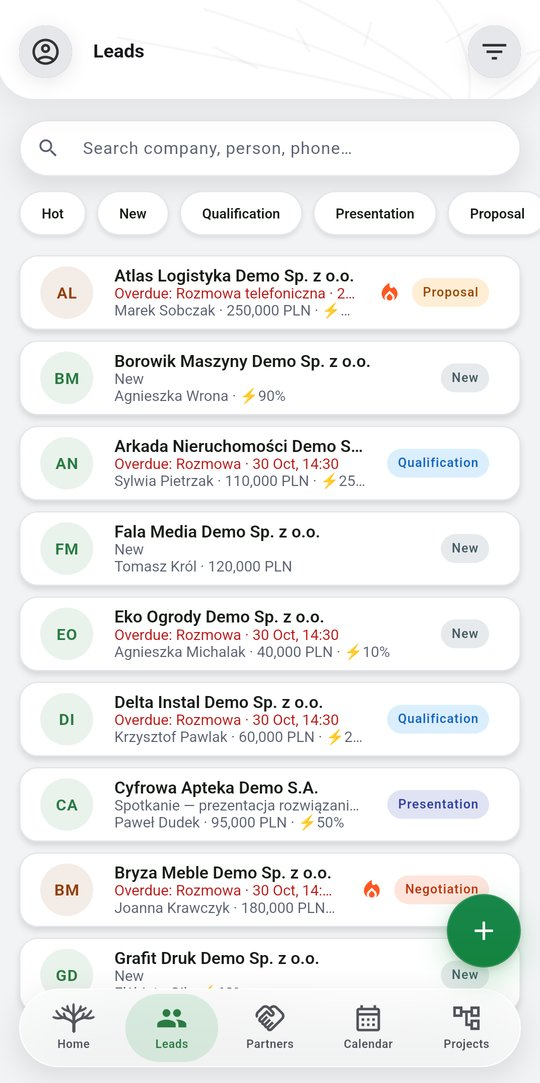
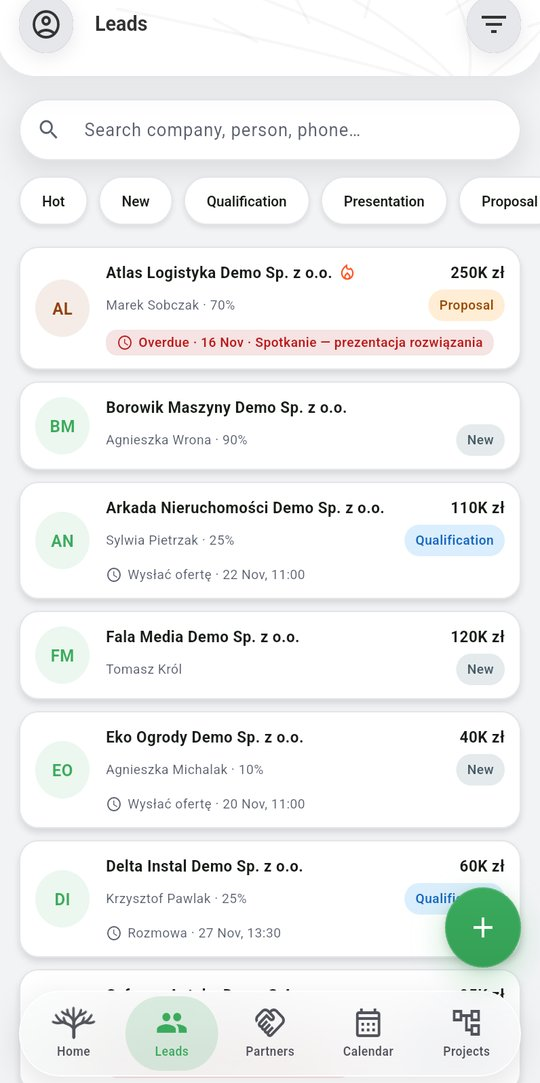
docs(instrukcja): lista leadów w telefonie na danych demo (PL/EN)

diff --git a/src/assets/manual/ru.html b/src/assets/manual/ru.html
@@ -436,9 +436,9 @@ nav.toc .grp{margin:12px 0 2px;padding:0 10px;font-size:12.5px;font-weight:700;c
 <figure class="webfig"><img loading="lazy" src="img/en_w04_leads_timeline.jpg?v=20261113" width="1440" height="900" alt="Панель шкалы времени"><figcaption>Панель «Календарь активностей»: план Piotr на 2 ноября.</figcaption></figure>
 
 <h4 id="p1-leads-mobile"><span class="tag mob">MOBILE</span>Лиды на телефоне</h4>
-<p>На вкладке <b>«Лиды»</b> есть поле <b>«Поиск компании, контакта, телефона…»</b> и чипы для <b>«Горячий»</b> и каждого этапа (<b>«Новый»</b>, <b>«Квалификация»</b>, <b>«Презентация»</b> и так далее). Сначала идут недавно обновлённые лиды. В первой строке плитки — компания и сумма (например, <b>«410 тыс. zł»</b>), во второй — контакт с вероятностью, справа — этап. Третья строка появляется только при задаче со сроком: просроченная — красной меткой <b>«Просроченные · 10 нояб. · …»</b>, ближайшая запланированная — серым. Пламя рядом с названием означает горячий лид. Значок воронки в правом верхнем углу открывает <b>«Фильтры»</b>: <b>«Этап»</b> (включая «Архив»), <b>«Источник»</b>, переключатели <b>«Горячий»</b>, <b>«Только на паузе»</b> и <b>«Только мои»</b>, а для руководителей – <b>«Менеджер по продажам»</b>. Завершите кнопкой <b>«Сбросить»</b> или <b>«Применить»</b>.</p>
+<p>На вкладке <b>«Лиды»</b> есть поле <b>«Поиск компании, контакта, телефона…»</b> и чипы для <b>«Горячий»</b> и каждого этапа (<b>«Новый»</b>, <b>«Квалификация»</b>, <b>«Презентация»</b> и так далее). Сначала идут недавно обновлённые лиды. В первой строке плитки — компания и сумма (например, <b>«250 тыс. zł»</b>), во второй — контакт с вероятностью, справа — этап. Третья строка появляется только при задаче со сроком: просроченная — красной меткой <b>«Просроченные · 10 нояб. · …»</b>, ближайшая запланированная — серым. Пламя рядом с названием означает горячий лид. Значок воронки в правом верхнем углу открывает <b>«Фильтры»</b>: <b>«Этап»</b> (включая «Архив»), <b>«Источник»</b>, переключатели <b>«Горячий»</b>, <b>«Только на паузе»</b> и <b>«Только мои»</b>, а для руководителей – <b>«Менеджер по продажам»</b>. Завершите кнопкой <b>«Сбросить»</b> или <b>«Применить»</b>.</p>
 <div class="phones">
-<figure class="phone"><img loading="lazy" src="img/en_t13_leads_list.jpg?v=20261116" width="540" height="1083" alt="Список лидов на телефоне"><figcaption>«Лиды»: поиск, чипы этапов и плитки лидов.</figcaption></figure>
+<figure class="phone"><img loading="lazy" src="img/en_t13_leads_list.jpg?v=20261116b" width="540" height="1083" alt="Список лидов на телефоне"><figcaption>«Лиды»: поиск, чипы этапов и плитки лидов.</figcaption></figure>
 <figure class="phone"><img loading="lazy" src="img/en_t14_leads_filters.jpg?v=20261113" width="540" height="1083" alt="Фильтры лидов"><figcaption>«Фильтры»: этап, источник, горячий, на паузе, только мои.</figcaption></figure>
 </div>
 </section>

diff --git a/src/assets/manual/fr.html b/src/assets/manual/fr.html
@@ -436,9 +436,9 @@ nav.toc .grp{margin:12px 0 2px;padding:0 10px;font-size:12.5px;font-weight:700;c
 <figure class="webfig"><img loading="lazy" src="img/en_w04_leads_timeline.jpg?v=20261113" width="1440" height="900" alt="Panneau de chronologie"><figcaption>Le panneau « Calendrier des activités » : le planning de Piotr pour le 2 novembre.</figcaption></figure>
 
 <h4 id="p1-leads-mobile"><span class="tag mob">MOBILE</span>Les leads sur le téléphone</h4>
-<p>L’onglet <b>« Leads »</b> comporte un champ <b>« Rechercher une société, une personne, un téléphone… »</b> et des puces pour <b>« Chauds »</b> et chaque étape (<b>« Nouveau »</b>, <b>« Qualification »</b>, <b>« Présentation »</b>, etc.). Les leads récemment mis à jour viennent en premier. La première ligne de la tuile affiche l’entreprise et la valeur (par exemple <b>« 410 k zł »</b>), la deuxième le contact avec la probabilité et, à droite, l’étape. Une troisième ligne n’apparaît que pour une activité datée : en retard sous forme d’étiquette rouge <b>« En retard · 10 nov. · … »</b>, la prochaine prévue en gris. Une flamme à côté du nom signale un lead chaud. L’icône d’entonnoir en haut à droite ouvre les <b>« Filtres »</b> : <b>« Étape »</b> (y compris Archivés), <b>« Source »</b>, des interrupteurs pour <b>« Chauds »</b>, <b>« En attente uniquement »</b> et <b>« Les miens uniquement »</b>, et pour les responsables <b>« Commercial »</b>. Terminez avec <b>« Effacer »</b> ou <b>« Appliquer »</b>.</p>
+<p>L’onglet <b>« Leads »</b> comporte un champ <b>« Rechercher une société, une personne, un téléphone… »</b> et des puces pour <b>« Chauds »</b> et chaque étape (<b>« Nouveau »</b>, <b>« Qualification »</b>, <b>« Présentation »</b>, etc.). Les leads récemment mis à jour viennent en premier. La première ligne de la tuile affiche l’entreprise et la valeur (par exemple <b>« 250 k zł »</b>), la deuxième le contact avec la probabilité et, à droite, l’étape. Une troisième ligne n’apparaît que pour une activité datée : en retard sous forme d’étiquette rouge <b>« En retard · 10 nov. · … »</b>, la prochaine prévue en gris. Une flamme à côté du nom signale un lead chaud. L’icône d’entonnoir en haut à droite ouvre les <b>« Filtres »</b> : <b>« Étape »</b> (y compris Archivés), <b>« Source »</b>, des interrupteurs pour <b>« Chauds »</b>, <b>« En attente uniquement »</b> et <b>« Les miens uniquement »</b>, et pour les responsables <b>« Commercial »</b>. Terminez avec <b>« Effacer »</b> ou <b>« Appliquer »</b>.</p>
 <div class="phones">
-<figure class="phone"><img loading="lazy" src="img/en_t13_leads_list.jpg?v=20261116" width="540" height="1083" alt="Liste des leads sur le téléphone"><figcaption>« Leads » : recherche, puces d’étapes et tuiles de leads.</figcaption></figure>
+<figure class="phone"><img loading="lazy" src="img/en_t13_leads_list.jpg?v=20261116b" width="540" height="1083" alt="Liste des leads sur le téléphone"><figcaption>« Leads » : recherche, puces d’étapes et tuiles de leads.</figcaption></figure>
 <figure class="phone"><img loading="lazy" src="img/en_t14_leads_filters.jpg?v=20261113" width="540" height="1083" alt="Filtres des leads"><figcaption>« Filtres » : étape, source, chaud, en attente, les miens uniquement.</figcaption></figure>
 </div>
 </section>

diff --git a/src/assets/manual/ro.html b/src/assets/manual/ro.html
@@ -436,9 +436,9 @@ nav.toc .grp{margin:12px 0 2px;padding:0 10px;font-size:12.5px;font-weight:700;c
 <figure class="webfig"><img loading="lazy" src="img/en_w04_leads_timeline.jpg?v=20261113" width="1440" height="900" alt="Panoul de cronologie"><figcaption>Panoul „Calendarul activităților”: planul lui Piotr pentru 2 noiembrie.</figcaption></figure>
 
 <h4 id="p1-leads-mobile"><span class="tag mob">MOBILE</span>Leaduri pe telefon</h4>
-<p>Fila <b>„Leaduri”</b> are o casetă <b>„Căutați companie, persoană, telefon…”</b> și chipuri pentru <b>„Fierbinți”</b> și pentru fiecare etapă (<b>„Nou”</b>, <b>„Calificare”</b>, <b>„Prezentare”</b> și așa mai departe). Leadurile actualizate recent apar primele. Primul rând al cardului arată compania și valoarea (de exemplu <b>„410 mii zł”</b>), al doilea contactul cu probabilitatea, iar în dreapta etapa. Un al treilea rând apare doar pentru o activitate cu termen: cea restantă ca etichetă roșie <b>„Restante · 10 nov. · …”</b>, următoarea planificată cu gri. O flacără lângă nume marchează un lead fierbinte. Pictograma pâlnie din colțul din dreapta sus deschide <b>„Filtre”</b>: <b>„Etapă”</b> (inclusiv Arhivat), <b>„Sursă”</b>, comutatoare pentru <b>„Fierbinți”</b>, <b>„Doar în așteptare”</b> și <b>„Doar ale mele”</b>, iar pentru manageri <b>„Agent de vânzări”</b>. Încheiați cu <b>„Resetare”</b> sau <b>„Aplicare”</b>.</p>
+<p>Fila <b>„Leaduri”</b> are o casetă <b>„Căutați companie, persoană, telefon…”</b> și chipuri pentru <b>„Fierbinți”</b> și pentru fiecare etapă (<b>„Nou”</b>, <b>„Calificare”</b>, <b>„Prezentare”</b> și așa mai departe). Leadurile actualizate recent apar primele. Primul rând al cardului arată compania și valoarea (de exemplu <b>„250 mii zł”</b>), al doilea contactul cu probabilitatea, iar în dreapta etapa. Un al treilea rând apare doar pentru o activitate cu termen: cea restantă ca etichetă roșie <b>„Restante · 10 nov. · …”</b>, următoarea planificată cu gri. O flacără lângă nume marchează un lead fierbinte. Pictograma pâlnie din colțul din dreapta sus deschide <b>„Filtre”</b>: <b>„Etapă”</b> (inclusiv Arhivat), <b>„Sursă”</b>, comutatoare pentru <b>„Fierbinți”</b>, <b>„Doar în așteptare”</b> și <b>„Doar ale mele”</b>, iar pentru manageri <b>„Agent de vânzări”</b>. Încheiați cu <b>„Resetare”</b> sau <b>„Aplicare”</b>.</p>
 <div class="phones">
-<figure class="phone"><img loading="lazy" src="img/en_t13_leads_list.jpg?v=20261116" width="540" height="1083" alt="Lista de leaduri pe telefon"><figcaption>„Leaduri”: căutare, chipuri de etapă și casete de leaduri.</figcaption></figure>
+<figure class="phone"><img loading="lazy" src="img/en_t13_leads_list.jpg?v=20261116b" width="540" height="1083" alt="Lista de leaduri pe telefon"><figcaption>„Leaduri”: căutare, chipuri de etapă și casete de leaduri.</figcaption></figure>
 <figure class="phone"><img loading="lazy" src="img/en_t14_leads_filters.jpg?v=20261113" width="540" height="1083" alt="Filtre pentru leaduri"><figcaption>„Filtre”: etapă, sursă, fierbinte, în așteptare, doar ale mele.</figcaption></figure>
 </div>
 </section>

diff --git a/src/assets/manual/es.html b/src/assets/manual/es.html
@@ -435,9 +435,9 @@ nav.toc .grp{margin:12px 0 2px;padding:0 10px;font-size:12.5px;font-weight:700;c
 <figure class="webfig"><img loading="lazy" src="img/en_w04_leads_timeline.jpg?v=20261113" width="1440" height="900" alt="Panel de cronología"><figcaption>El panel “Calendario de actividades”: el plan de Piotr para el 2 de noviembre.</figcaption></figure>
 
 <h4 id="p1-leads-mobile"><span class="tag mob">MOBILE</span>Leads en el móvil</h4>
-<p>La pestaña <b>“Leads”</b> tiene un cuadro <b>“Buscar empresa, persona, teléfono…”</b> y chips para <b>“Calientes”</b> y cada etapa (<b>“Nuevo”</b>, <b>“Cualificación”</b>, <b>“Presentación”</b>, etc.). Los leads actualizados más recientemente aparecen primero. La primera línea de la tarjeta muestra la empresa y el valor (por ejemplo <b>«410 mil zł»</b>), la segunda el contacto con la probabilidad y, a la derecha, la etapa. Una tercera línea aparece solo si hay una actividad con fecha: la atrasada como etiqueta roja <b>«Atrasadas · 10 nov · …»</b>, la próxima planificada en gris. Una llama junto al nombre indica un lead caliente. El icono de embudo de la esquina superior derecha abre <b>“Filtros”</b>: <b>“Etapa”</b> (incluidos los archivados), <b>“Origen”</b>, interruptores para <b>“Calientes”</b>, <b>“Solo en espera”</b> y <b>“Solo los míos”</b> y, para los responsables, <b>“Comercial”</b>. Termina con <b>“Borrar”</b> o <b>“Aplicar”</b>.</p>
+<p>La pestaña <b>“Leads”</b> tiene un cuadro <b>“Buscar empresa, persona, teléfono…”</b> y chips para <b>“Calientes”</b> y cada etapa (<b>“Nuevo”</b>, <b>“Cualificación”</b>, <b>“Presentación”</b>, etc.). Los leads actualizados más recientemente aparecen primero. La primera línea de la tarjeta muestra la empresa y el valor (por ejemplo <b>«250 mil zł»</b>), la segunda el contacto con la probabilidad y, a la derecha, la etapa. Una tercera línea aparece solo si hay una actividad con fecha: la atrasada como etiqueta roja <b>«Atrasadas · 10 nov · …»</b>, la próxima planificada en gris. Una llama junto al nombre indica un lead caliente. El icono de embudo de la esquina superior derecha abre <b>“Filtros”</b>: <b>“Etapa”</b> (incluidos los archivados), <b>“Origen”</b>, interruptores para <b>“Calientes”</b>, <b>“Solo en espera”</b> y <b>“Solo los míos”</b> y, para los responsables, <b>“Comercial”</b>. Termina con <b>“Borrar”</b> o <b>“Aplicar”</b>.</p>
 <div class="phones">
-<figure class="phone"><img loading="lazy" src="img/en_t13_leads_list.jpg?v=20261116" width="540" height="1083" alt="Lista de leads en el móvil"><figcaption>“Leads”: búsqueda, chips de etapa y tarjetas de leads.</figcaption></figure>
+<figure class="phone"><img loading="lazy" src="img/en_t13_leads_list.jpg?v=20261116b" width="540" height="1083" alt="Lista de leads en el móvil"><figcaption>“Leads”: búsqueda, chips de etapa y tarjetas de leads.</figcaption></figure>
 <figure class="phone"><img loading="lazy" src="img/en_t14_leads_filters.jpg?v=20261113" width="540" height="1083" alt="Filtros de leads"><figcaption>“Filtros”: etapa, origen, calientes, en espera, solo los míos.</figcaption></figure>
 </div>
 </section>

diff --git a/src/assets/manual/de.html b/src/assets/manual/de.html
@@ -436,9 +436,9 @@ nav.toc .grp{margin:12px 0 2px;padding:0 10px;font-size:12.5px;font-weight:700;c
 <figure class="webfig"><img loading="lazy" src="img/en_w04_leads_timeline.jpg?v=20261113" width="1440" height="900" alt="Zeitachsen-Panel"><figcaption>Das Panel „Aktivitätenkalender“: Piotrs Plan für den 2. November.</figcaption></figure>
 
 <h4 id="p1-leads-mobile"><span class="tag mob">MOBILE</span>Leads auf dem Handy</h4>
-<p>Die Registerkarte <b>„Leads“</b> hat ein Feld <b>„Firma, Person, Telefon suchen …“</b> und Chips für <b>„Heiß“</b> und jede Phase (<b>„Neu“</b>, <b>„Qualifizierung“</b>, <b>„Präsentation“</b> und so weiter). Zuletzt aktualisierte Leads stehen oben. Die erste Zeile einer Kachel zeigt Firma und Wert (zum Beispiel <b>„410.000 zł“</b>), die zweite den Kontakt mit der Wahrscheinlichkeit, rechts die Phase. Eine dritte Zeile erscheint nur bei einer terminierten Aktivität: eine überfällige als rotes Etikett <b>„Überfällig · 10. Nov. · …“</b>, die nächste geplante in Grau. Eine Flamme neben dem Namen kennzeichnet einen heißen Lead. Das Trichtersymbol in der oberen rechten Ecke öffnet die <b>„Filter“</b>: <b>„Phase“</b> (einschließlich Archiviert), <b>„Quelle“</b>, Schalter für <b>„Heiß“</b>, <b>„Nur zurückgestellte“</b> und <b>„Nur meine“</b> sowie für Vertriebsleiter <b>„Vertriebsmitarbeiter“</b>. Abschließen mit <b>„Löschen“</b> oder <b>„Anwenden“</b>.</p>
+<p>Die Registerkarte <b>„Leads“</b> hat ein Feld <b>„Firma, Person, Telefon suchen …“</b> und Chips für <b>„Heiß“</b> und jede Phase (<b>„Neu“</b>, <b>„Qualifizierung“</b>, <b>„Präsentation“</b> und so weiter). Zuletzt aktualisierte Leads stehen oben. Die erste Zeile einer Kachel zeigt Firma und Wert (zum Beispiel <b>„250.000 zł“</b>), die zweite den Kontakt mit der Wahrscheinlichkeit, rechts die Phase. Eine dritte Zeile erscheint nur bei einer terminierten Aktivität: eine überfällige als rotes Etikett <b>„Überfällig · 10. Nov. · …“</b>, die nächste geplante in Grau. Eine Flamme neben dem Namen kennzeichnet einen heißen Lead. Das Trichtersymbol in der oberen rechten Ecke öffnet die <b>„Filter“</b>: <b>„Phase“</b> (einschließlich Archiviert), <b>„Quelle“</b>, Schalter für <b>„Heiß“</b>, <b>„Nur zurückgestellte“</b> und <b>„Nur meine“</b> sowie für Vertriebsleiter <b>„Vertriebsmitarbeiter“</b>. Abschließen mit <b>„Löschen“</b> oder <b>„Anwenden“</b>.</p>
 <div class="phones">
-<figure class="phone"><img loading="lazy" src="img/en_t13_leads_list.jpg?v=20261116" width="540" height="1083" alt="Lead-Liste auf dem Handy"><figcaption>„Leads“: Suche, Phasen-Chips und Lead-Kacheln.</figcaption></figure>
+<figure class="phone"><img loading="lazy" src="img/en_t13_leads_list.jpg?v=20261116b" width="540" height="1083" alt="Lead-Liste auf dem Handy"><figcaption>„Leads“: Suche, Phasen-Chips und Lead-Kacheln.</figcaption></figure>
 <figure class="phone"><img loading="lazy" src="img/en_t14_leads_filters.jpg?v=20261113" width="540" height="1083" alt="Lead-Filter"><figcaption>„Filter“: Phase, Quelle, heiß, zurückgestellt, nur meine.</figcaption></figure>
 </div>
 </section>

diff --git a/src/assets/manual/it.html b/src/assets/manual/it.html
@@ -436,9 +436,9 @@ nav.toc .grp{margin:12px 0 2px;padding:0 10px;font-size:12.5px;font-weight:700;c
 <figure class="webfig"><img loading="lazy" src="img/en_w04_leads_timeline.jpg?v=20261113" width="1440" height="900" alt="Pannello Timeline"><figcaption>Il pannello «Calendario delle azioni»: il piano di Piotr per il 2 novembre.</figcaption></figure>
 
 <h4 id="p1-leads-mobile"><span class="tag mob">MOBILE</span>I lead sul telefono</h4>
-<p>La scheda <b>«Lead»</b> ha una casella <b>«Cerca azienda, persona, telefono…»</b> e chip per <b>«Caldi»</b> e per ogni fase (<b>«Nuovo»</b>, <b>«Qualificazione»</b>, <b>«Presentazione»</b> e così via). I lead aggiornati di recente compaiono per primi. La prima riga della scheda mostra azienda e valore (ad esempio <b>«410.000 zł»</b>), la seconda il contatto con la probabilità e, a destra, la fase. Una terza riga compare solo per un’attività con scadenza: quella in ritardo come etichetta rossa <b>«In ritardo · 10 nov · …»</b>, la prossima pianificata in grigio. Una fiamma accanto al nome indica un lead caldo. L'icona a imbuto nell'angolo in alto a destra apre i <b>«Filtri»</b>: <b>«Fase»</b> (incluso Archiviato), <b>«Origine»</b>, interruttori per <b>«Caldi»</b>, <b>«Solo in sospeso»</b> e <b>«Solo i miei»</b> e, per i responsabili, <b>«Commerciale»</b>. Concludi con <b>«Cancella»</b> o <b>«Applica»</b>.</p>
+<p>La scheda <b>«Lead»</b> ha una casella <b>«Cerca azienda, persona, telefono…»</b> e chip per <b>«Caldi»</b> e per ogni fase (<b>«Nuovo»</b>, <b>«Qualificazione»</b>, <b>«Presentazione»</b> e così via). I lead aggiornati di recente compaiono per primi. La prima riga della scheda mostra azienda e valore (ad esempio <b>«250.000 zł»</b>), la seconda il contatto con la probabilità e, a destra, la fase. Una terza riga compare solo per un’attività con scadenza: quella in ritardo come etichetta rossa <b>«In ritardo · 10 nov · …»</b>, la prossima pianificata in grigio. Una fiamma accanto al nome indica un lead caldo. L'icona a imbuto nell'angolo in alto a destra apre i <b>«Filtri»</b>: <b>«Fase»</b> (incluso Archiviato), <b>«Origine»</b>, interruttori per <b>«Caldi»</b>, <b>«Solo in sospeso»</b> e <b>«Solo i miei»</b> e, per i responsabili, <b>«Commerciale»</b>. Concludi con <b>«Cancella»</b> o <b>«Applica»</b>.</p>
 <div class="phones">
-<figure class="phone"><img loading="lazy" src="img/en_t13_leads_list.jpg?v=20261116" width="540" height="1083" alt="Elenco dei lead sul telefono"><figcaption>«Lead»: ricerca, chip delle fasi e riquadri dei lead.</figcaption></figure>
+<figure class="phone"><img loading="lazy" src="img/en_t13_leads_list.jpg?v=20261116b" width="540" height="1083" alt="Elenco dei lead sul telefono"><figcaption>«Lead»: ricerca, chip delle fasi e riquadri dei lead.</figcaption></figure>
 <figure class="phone"><img loading="lazy" src="img/en_t14_leads_filters.jpg?v=20261113" width="540" height="1083" alt="Filtri dei lead"><figcaption>«Filtri»: fase, origine, caldi, in sospeso, solo i miei.</figcaption></figure>
 </div>
 </section>

diff --git a/src/assets/manual/pl.html b/src/assets/manual/pl.html
@@ -437,9 +437,9 @@ nav.toc .grp{margin:12px 0 2px;padding:0 10px;font-size:12.5px;font-weight:700;c
 <figure class="webfig"><img loading="lazy" src="img/pl_w04_leads_timeline.jpg?v=20261113" width="1440" height="900" alt="Panel Oś czasu"><figcaption>„Kalendarz aktywności” z przycisku „Oś czasu”: plan Piotra na 2 listopada.</figcaption></figure>
 
 <h4 id="p1-leads-mobile"><span class="tag mob">MOBILE</span>Leady w telefonie</h4>
-<p>Zakładka <b>„Leady”</b> ma wyszukiwarkę <b>„Szukaj firmy, osoby, telefonu…”</b> i chipy: <b>„Gorące”</b> oraz etapy (<b>„Nowy”</b>, <b>„Kwalifikacja”</b>, <b>„Prezentacja”</b> i dalsze). Na górze są leady zmieniane ostatnio. Kafel leada ma w pierwszej linii firmę i wartość (np. <b>„410 tys. zł”</b>), w drugiej kontakt z prawdopodobieństwem, a po prawej etap. Trzecia linia pojawia się tylko przy zadaniu z terminem: zaległe jako czerwona plakietka <b>„Zaległe · 10 lis · …”</b>, najbliższe na szaro. Płomień przy nazwie oznacza gorący lead. Ikona lejka w prawym górnym rogu otwiera <b>„Filtry”</b>: <b>„Etap”</b> (także „Archiwum”), <b>„Źródło”</b>, przełączniki <b>„Gorące”</b>, <b>„Tylko na Holdzie”</b>, <b>„Tylko moje”</b>, a u kierownika <b>„Handlowiec”</b>. Przyciski: <b>„Wyczyść”</b> i <b>„Zastosuj”</b>.</p>
+<p>Zakładka <b>„Leady”</b> ma wyszukiwarkę <b>„Szukaj firmy, osoby, telefonu…”</b> i chipy: <b>„Gorące”</b> oraz etapy (<b>„Nowy”</b>, <b>„Kwalifikacja”</b>, <b>„Prezentacja”</b> i dalsze). Na górze są leady zmieniane ostatnio. Kafel leada ma w pierwszej linii firmę i wartość (np. <b>„250 tys. zł”</b>), w drugiej kontakt z prawdopodobieństwem, a po prawej etap. Trzecia linia pojawia się tylko przy zadaniu z terminem: zaległe jako czerwona plakietka <b>„Zaległe · 10 lis · …”</b>, najbliższe na szaro. Płomień przy nazwie oznacza gorący lead. Ikona lejka w prawym górnym rogu otwiera <b>„Filtry”</b>: <b>„Etap”</b> (także „Archiwum”), <b>„Źródło”</b>, przełączniki <b>„Gorące”</b>, <b>„Tylko na Holdzie”</b>, <b>„Tylko moje”</b>, a u kierownika <b>„Handlowiec”</b>. Przyciski: <b>„Wyczyść”</b> i <b>„Zastosuj”</b>.</p>
 <div class="phones">
-<figure class="phone"><img loading="lazy" src="img/pl_t13_leads_list.jpg?v=20261116" width="540" height="1083" alt="Lista leadów w telefonie"><figcaption>„Leady”: wyszukiwarka, chipy etapów, kafle leadów.</figcaption></figure>
+<figure class="phone"><img loading="lazy" src="img/pl_t13_leads_list.jpg?v=20261116b" width="540" height="1083" alt="Lista leadów w telefonie"><figcaption>„Leady”: wyszukiwarka, chipy etapów, kafle leadów.</figcaption></figure>
 <figure class="phone"><img loading="lazy" src="img/pl_t14_leads_filters.jpg?v=20261113" width="540" height="1083" alt="Filtry leadów"><figcaption>„Filtry”: etap, źródło, gorące, Hold, tylko moje.</figcaption></figure>
 </div>
 </section>

diff --git a/src/assets/manual/hr.html b/src/assets/manual/hr.html
@@ -436,9 +436,9 @@ nav.toc .grp{margin:12px 0 2px;padding:0 10px;font-size:12.5px;font-weight:700;c
 <figure class="webfig"><img loading="lazy" src="img/en_w04_leads_timeline.jpg?v=20261113" width="1440" height="900" alt="Ploča vremenske crte"><figcaption>Ploča „Kalendar aktivnosti”: Piotrov plan za 2. studenoga.</figcaption></figure>
 
 <h4 id="p1-leads-mobile"><span class="tag mob">MOBILE</span>Leadovi na telefonu</h4>
-<p>Kartica <b>„Leadovi”</b> ima okvir <b>„Traži tvrtku, osobu, telefon…”</b> i čipove za <b>„Vrući”</b> i svaku fazu (<b>„Novi”</b>, <b>„Kvalifikacija”</b>, <b>„Prezentacija”</b> i tako dalje). Nedavno ažurirani leadovi dolaze prvi. Prvi redak pločice prikazuje tvrtku i vrijednost (na primjer <b>„410 tis. zł”</b>), drugi kontakt s vjerojatnošću, a desno fazu. Treći redak pojavljuje se samo uz aktivnost s rokom: zakašnjela kao crvena oznaka <b>„Zakašnjelo · 10. stu · …”</b>, sljedeća planirana sivo. Plamen uz naziv označava vrući lead. Ikona lijevka u gornjem desnom kutu otvara <b>„Filtri”</b>: <b>„Faza”</b> (uključujući arhivirane), <b>„Izvor”</b>, prekidače za <b>„Vrući”</b>, <b>„Samo na čekanju”</b> i <b>„Samo moji”</b>, a za menadžere i <b>„Prodavač”</b>. Završite s <b>„Očisti”</b> ili <b>„Primijeni”</b>.</p>
+<p>Kartica <b>„Leadovi”</b> ima okvir <b>„Traži tvrtku, osobu, telefon…”</b> i čipove za <b>„Vrući”</b> i svaku fazu (<b>„Novi”</b>, <b>„Kvalifikacija”</b>, <b>„Prezentacija”</b> i tako dalje). Nedavno ažurirani leadovi dolaze prvi. Prvi redak pločice prikazuje tvrtku i vrijednost (na primjer <b>„250 tis. zł”</b>), drugi kontakt s vjerojatnošću, a desno fazu. Treći redak pojavljuje se samo uz aktivnost s rokom: zakašnjela kao crvena oznaka <b>„Zakašnjelo · 10. stu · …”</b>, sljedeća planirana sivo. Plamen uz naziv označava vrući lead. Ikona lijevka u gornjem desnom kutu otvara <b>„Filtri”</b>: <b>„Faza”</b> (uključujući arhivirane), <b>„Izvor”</b>, prekidače za <b>„Vrući”</b>, <b>„Samo na čekanju”</b> i <b>„Samo moji”</b>, a za menadžere i <b>„Prodavač”</b>. Završite s <b>„Očisti”</b> ili <b>„Primijeni”</b>.</p>
 <div class="phones">
-<figure class="phone"><img loading="lazy" src="img/en_t13_leads_list.jpg?v=20261116" width="540" height="1083" alt="Popis leadova na telefonu"><figcaption>„Leadovi”: pretraživanje, čipovi faza i pločice leadova.</figcaption></figure>
+<figure class="phone"><img loading="lazy" src="img/en_t13_leads_list.jpg?v=20261116b" width="540" height="1083" alt="Popis leadova na telefonu"><figcaption>„Leadovi”: pretraživanje, čipovi faza i pločice leadova.</figcaption></figure>
 <figure class="phone"><img loading="lazy" src="img/en_t14_leads_filters.jpg?v=20261113" width="540" height="1083" alt="Filtri leadova"><figcaption>„Filtri”: faza, izvor, vrući, na čekanju, samo moji.</figcaption></figure>
 </div>
 </section>

diff --git a/src/assets/manual/en.html b/src/assets/manual/en.html
@@ -436,9 +436,9 @@ nav.toc .grp{margin:12px 0 2px;padding:0 10px;font-size:12.5px;font-weight:700;c
 <figure class="webfig"><img loading="lazy" src="img/en_w04_leads_timeline.jpg?v=20261113" width="1440" height="900" alt="Timeline panel"><figcaption>The “Activity calendar” panel: Piotr's plan for 2 November.</figcaption></figure>
 
 <h4 id="p1-leads-mobile"><span class="tag mob">MOBILE</span>Leads on the phone</h4>
-<p>The <b>“Leads”</b> tab has a <b>“Search company, person, phone…”</b> box and chips for <b>“Hot”</b> and each stage (<b>“New”</b>, <b>“Qualification”</b>, <b>“Presentation”</b> and so on). Recently updated leads come first. The first line of a tile shows the company and the value (for example <b>“410K zł”</b>), the second the contact with the probability, and the stage on the right. A third line appears only for a dated activity: an overdue one as a red label <b>“Overdue · 10 Nov · …”</b>, the next planned one in grey. A flame next to the name marks a hot lead. The funnel icon in the top-right corner opens <b>“Filters”</b>: <b>“Stage”</b> (including Archived), <b>“Source”</b>, switches for <b>“Hot”</b>, <b>“On hold only”</b> and <b>“Mine only”</b>, and for managers <b>“Salesperson”</b>. Finish with <b>“Clear”</b> or <b>“Apply”</b>.</p>
+<p>The <b>“Leads”</b> tab has a <b>“Search company, person, phone…”</b> box and chips for <b>“Hot”</b> and each stage (<b>“New”</b>, <b>“Qualification”</b>, <b>“Presentation”</b> and so on). Recently updated leads come first. The first line of a tile shows the company and the value (for example <b>“250K zł”</b>), the second the contact with the probability, and the stage on the right. A third line appears only for a dated activity: an overdue one as a red label <b>“Overdue · 10 Nov · …”</b>, the next planned one in grey. A flame next to the name marks a hot lead. The funnel icon in the top-right corner opens <b>“Filters”</b>: <b>“Stage”</b> (including Archived), <b>“Source”</b>, switches for <b>“Hot”</b>, <b>“On hold only”</b> and <b>“Mine only”</b>, and for managers <b>“Salesperson”</b>. Finish with <b>“Clear”</b> or <b>“Apply”</b>.</p>
 <div class="phones">
-<figure class="phone"><img loading="lazy" src="img/en_t13_leads_list.jpg?v=20261116" width="540" height="1083" alt="Lead list on the phone"><figcaption>“Leads”: search, stage chips and lead tiles.</figcaption></figure>
+<figure class="phone"><img loading="lazy" src="img/en_t13_leads_list.jpg?v=20261116b" width="540" height="1083" alt="Lead list on the phone"><figcaption>“Leads”: search, stage chips and lead tiles.</figcaption></figure>
 <figure class="phone"><img loading="lazy" src="img/en_t14_leads_filters.jpg?v=20261113" width="540" height="1083" alt="Lead filters"><figcaption>“Filters”: stage, source, hot, on hold, mine only.</figcaption></figure>
 </div>
 </section>

diff --git a/src/assets/manual/sl.html b/src/assets/manual/sl.html
@@ -436,9 +436,9 @@ nav.toc .grp{margin:12px 0 2px;padding:0 10px;font-size:12.5px;font-weight:700;c
 <figure class="webfig"><img loading="lazy" src="img/en_w04_leads_timeline.jpg?v=20261113" width="1440" height="900" alt="Plošča časovnice"><figcaption>Plošča »Koledar aktivnosti«: Piotrov načrt za 2. november.</figcaption></figure>
 
 <h4 id="p1-leads-mobile"><span class="tag mob">MOBILE</span>Leadi na telefonu</h4>
-<p>Zavihek <b>»Leadi«</b> ima polje <b>»Išči podjetje, osebo, telefon…«</b> ter čipe za <b>»Vroči«</b> in vsako fazo (<b>»Nov«</b>, <b>»Kvalifikacija«</b>, <b>»Predstavitev«</b> in tako naprej). Nedavno posodobljeni leadi so na vrhu. Prva vrstica ploščice prikaže podjetje in vrednost (na primer <b>»410 tis. zł«</b>), druga stik z verjetnostjo, desno pa fazo. Tretja vrstica se pojavi samo pri aktivnosti z rokom: zapadla kot rdeča oznaka <b>»Zapadlo · 10. nov. · …«</b>, naslednja načrtovana sivo. Plamen ob imenu označuje vroč lead. Ikona lijaka v zgornjem desnem kotu odpre <b>»Filtre«</b>: <b>»Faza«</b> (vključno z Arhivirano), <b>»Vir«</b>, stikala za <b>»Vroči«</b>, <b>»Samo zadržani«</b> in <b>»Samo moji«</b>, za vodje pa <b>»Prodajalec«</b>. Zaključite z <b>»Počisti«</b> ali <b>»Uporabi«</b>.</p>
+<p>Zavihek <b>»Leadi«</b> ima polje <b>»Išči podjetje, osebo, telefon…«</b> ter čipe za <b>»Vroči«</b> in vsako fazo (<b>»Nov«</b>, <b>»Kvalifikacija«</b>, <b>»Predstavitev«</b> in tako naprej). Nedavno posodobljeni leadi so na vrhu. Prva vrstica ploščice prikaže podjetje in vrednost (na primer <b>»250 tis. zł«</b>), druga stik z verjetnostjo, desno pa fazo. Tretja vrstica se pojavi samo pri aktivnosti z rokom: zapadla kot rdeča oznaka <b>»Zapadlo · 10. nov. · …«</b>, naslednja načrtovana sivo. Plamen ob imenu označuje vroč lead. Ikona lijaka v zgornjem desnem kotu odpre <b>»Filtre«</b>: <b>»Faza«</b> (vključno z Arhivirano), <b>»Vir«</b>, stikala za <b>»Vroči«</b>, <b>»Samo zadržani«</b> in <b>»Samo moji«</b>, za vodje pa <b>»Prodajalec«</b>. Zaključite z <b>»Počisti«</b> ali <b>»Uporabi«</b>.</p>
 <div class="phones">
-<figure class="phone"><img loading="lazy" src="img/en_t13_leads_list.jpg?v=20261116" width="540" height="1083" alt="Seznam leadov na telefonu"><figcaption>»Leadi«: iskanje, čipi faz in ploščice leadov.</figcaption></figure>
+<figure class="phone"><img loading="lazy" src="img/en_t13_leads_list.jpg?v=20261116b" width="540" height="1083" alt="Seznam leadov na telefonu"><figcaption>»Leadi«: iskanje, čipi faz in ploščice leadov.</figcaption></figure>
 <figure class="phone"><img loading="lazy" src="img/en_t14_leads_filters.jpg?v=20261113" width="540" height="1083" alt="Filtri leadov"><figcaption>»Filtri«: faza, vir, vroči, zadržani, samo moji.</figcaption></figure>
 </div>
 </section>
